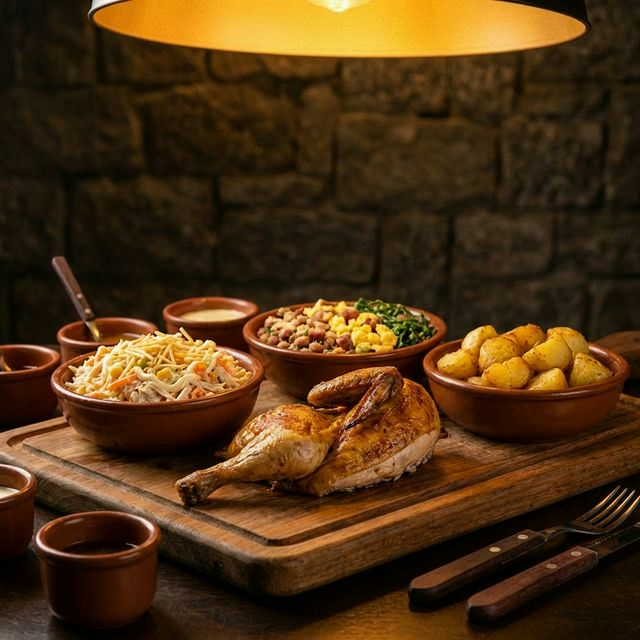
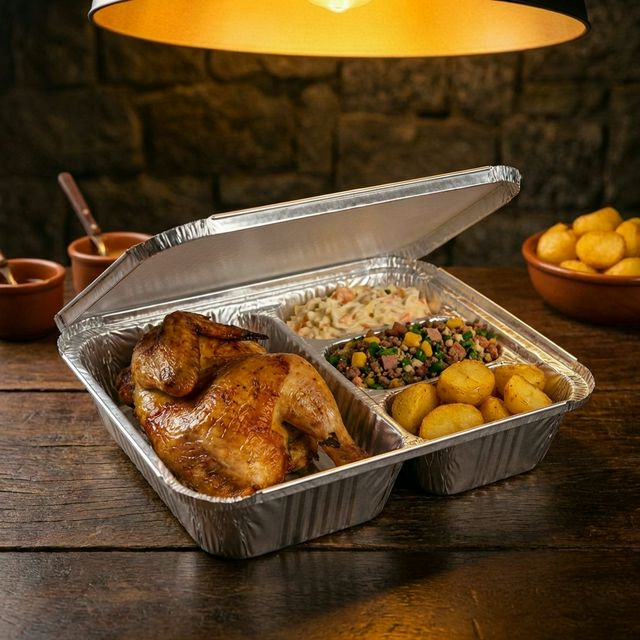
fix: meio galeto com guarnição - imagem com embalagem individual aprovada

diff --git a/alteração.md b/alteração.md
@@ -117,3 +117,40 @@ ANTES (4 cards):                    DEPOIS (4 cards):
 2. Gerar as 3 novas imagens com máxima fidelidade ao estilo fotográfico existente
 3. Atualizar o `index.html` com os novos cards, textos, preços e referências de imagem
 4. Verificar tudo no navegador
+
+---
+
+## 🔧 Ajuste Pós-Execução: Proporção das Guarnições
+
+### Problema Identificado
+
+Ao comparar as duas imagens com guarnição, percebe-se que as **tigelas de salpicão, feijão tropeiro e batatas assadas** são do **mesmo tamanho** tanto na foto do **Galeto Inteiro com Guarnição** quanto na foto do **Meio Galeto com Guarnição**.
+
+Isso gera uma **incoerência visual e comercial:**
+- Se o cliente paga R$ 119,90 pelo galeto inteiro com guarnição completa...
+- ...e paga R$ 69,99 pelo meio galeto com guarnição...
+- ...não faz sentido as porções de guarnição parecerem **idênticas** nas duas fotos.
+- O cliente pode questionar: "Qual a diferença real entre os dois combos além de meio frango?"
+
+### Solução
+
+Regenerar **apenas** a imagem `meio-galeto-guarnicao.png` com as seguintes diferenças visuais em relação à versão do galeto inteiro:
+
+| Elemento | Galeto Inteiro + Guarnição | Meio Galeto + Guarnição |
+|----------|---------------------------|------------------------|
+| Galeto | Inteiro, grande | Metade, menor |
+| Tigelas de guarnição | Grandes, cheias | **Menores, com menos conteúdo** |
+| Tábua/prato | Grande, farta | **Mais compacta, proporcional** |
+
+A ideia é que a foto do "Meio Galeto com Guarnição" transmita visualmente a sensação de uma **refeição individual proporcionada**, enquanto a do "Galeto Inteiro com Guarnição" transmita a sensação de uma **refeição farta para compartilhar**.
+
+### O que será feito
+
+1. Gerar nova imagem `meio-galeto-guarnicao.png` com:
+   - Tigelas/bowls menores (tipo ramekin ou tigela pequena)
+   - Quantidade visivelmente menor de cada guarnição
+   - Tábua ou prato menor, mais compacto
+   - Manter a mesma estética (iluminação, cenário, estilo)
+2. Substituir a imagem no `assets/`
+3. Verificar no navegador
+
